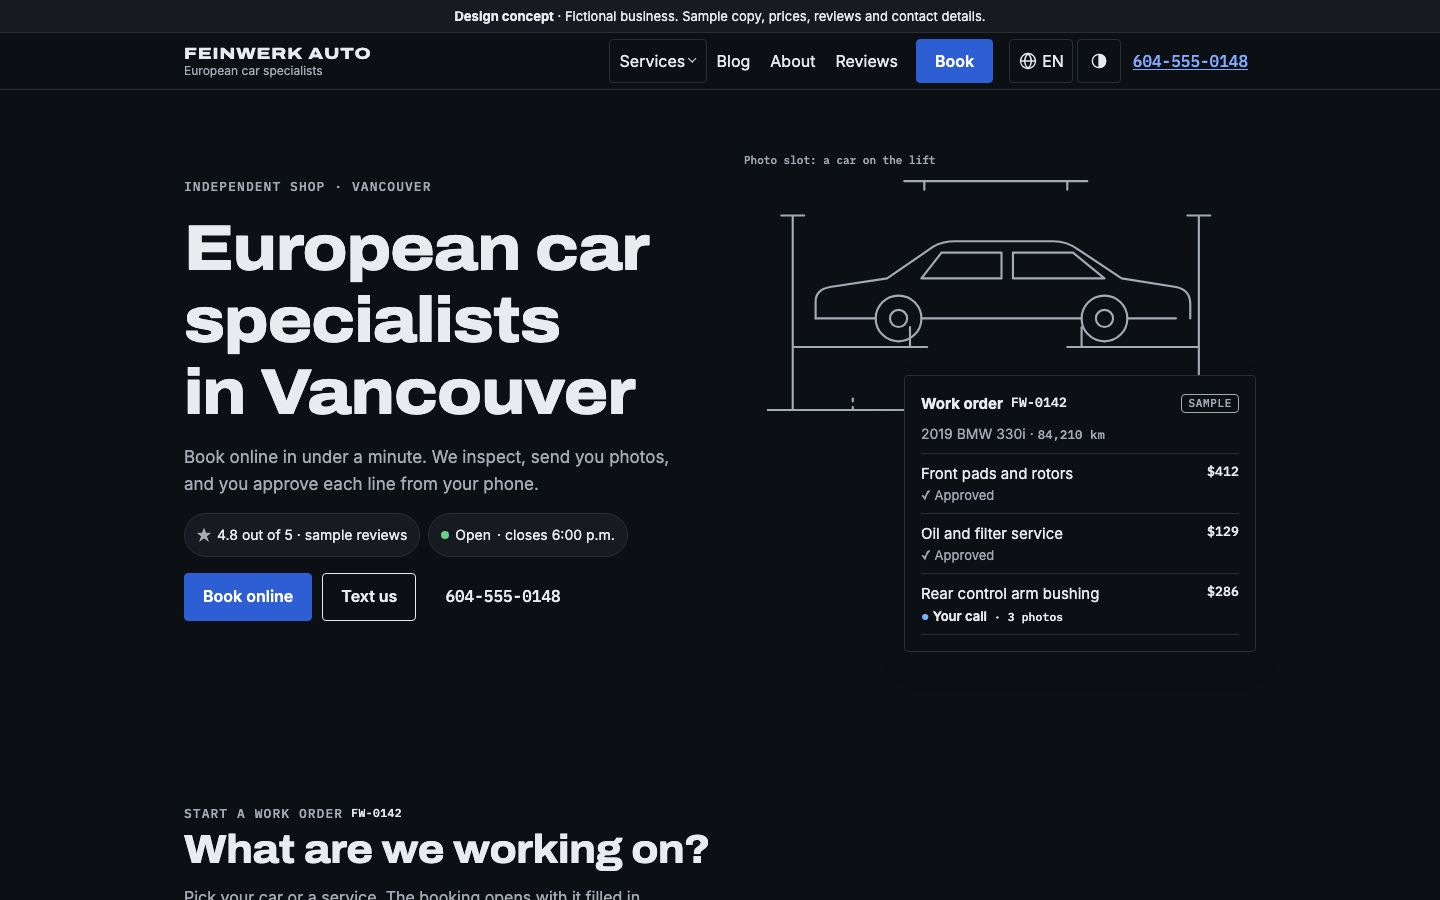
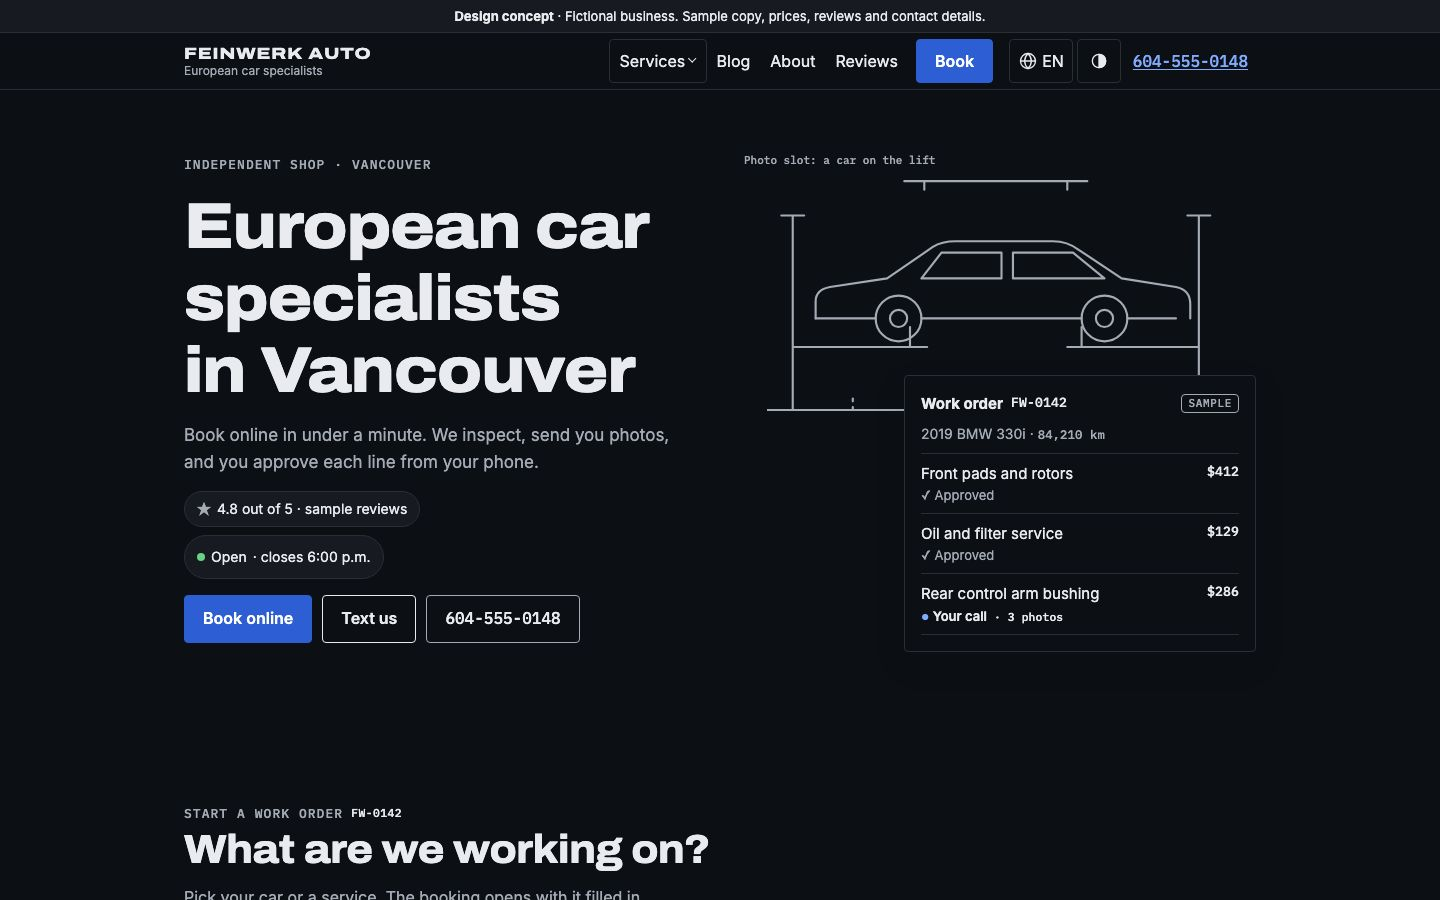
docs: the CLS fix in review.md and decisions.md; README shots retaken ($ prices, stacked chips)

Changed region(s): [[0.125, 0.1556, 0.4688, 0.7156], [0.3125, 0.5911, 0.4375, 0.6222]]

diff --git a/docs/decisions.md b/docs/decisions.md
@@ -152,5 +152,6 @@ PLAN.md's Decisions are settled; they are repeated here so each can be revisited
 - **No container queries yet** (review S4). Every component sits in one place at one width per viewport, so a container query would give the same result as the media queries already there. The first component placed in two contexts (a tile in a sidebar, a review card in a post) gets one.
 - **No same-page view transition on the make picker** (review S4). The make tiles are links to the make pages, so there is no state change on the page to animate; a cross-page transition stays an extra, as PLAN.md's browser table says.
 - **No "next free slot" on the page** (review S4). A static demo has no calendar: a next free slot would be invented data shown as live, the one kind of sample the demo-safety rules can't label well. The open/closed chip is live (it is computed from the hours and the Vancouver clock); the booking slots are computed from the hours and say "We call you to confirm the time."
+- **The hero chips sit one per row at every width.** The open/closed label is written by script after the first paint, so its width can't be known at build time; on one row with the rating chip, a longer label wrapped the row and shifted the page (CLS 0.13 in one Lighthouse run). Stacked, the label can grow without moving anything. `tests/e2e/home.spec.ts` swaps the painted and live labels in four languages at 360, 412, 768 and 1440 px and checks the buttons below stay put.
 - **English got its own read** (p6 pre-review): Canadian spelling holds (centre, labour, kilometres, tires, licensed), no "dealer" or "authorized" outside key names. One line changed: "with your car filled in" became "The booking opens with your car's details filled in", the same sentence that read badly in French (M5).
 - **Phone screenshots for Ming's look are local renders** (`node scripts/readme-shots.mjs <preview URL> --phones` into `docs/screenshots/phone/`): the first screen of Home, the BMW and MINI page and Book, 4 languages × 2 themes, at 390 × 844. They are macOS renders for a person to look at; the 48 baselines stay CI's own.

diff --git a/docs/review.md b/docs/review.md
@@ -26,6 +26,7 @@ Every Must item is fixed. Five Should items are fixed, two are left with a reaso
 | S5 | fixed | 0f97c50: Flotte, point relevé, boîte de transfert, sur place, on lit ses codes d'erreur, une rangée d'ateliers, centre de service de marque typique, 2,0 L with a no-break space, "ont toutes des panneaux", "redescendues à environ ±3 %" |
 | S6 | fixed, one left | 0f97c50: contact lead, review 5, vag.lead, 副水箱, 後泵把, 「裂咗條縫」, 睇下 in the posts too. 輪圈 → 呔鈴 left for the native reader, as the review said |
 | S7 | fixed | 0f97c50: 汽修店 (7 places), 厢式车, 「尽头的那一间」, review 5 rewritten |
+| New | fixed | a86f19c: Lighthouse saw CLS 0.13 on Home in 1 of 3 runs (CI run 44692934822). The status chip paints "See hours", the script writes "Closed · opens tomorrow 8:00 a.m.", and at 412 px the longer label wrapped the chips row. The hero chips now sit one per row; a new e2e test fails on the old CSS at 412 px in all four languages |
 | p6 pre-review | done | English was never read in Phase 6. Read in Phase 7: Canadian spelling holds, no "dealer" or "authorized" outside key names, one line changed (M5 row). 简体中文 now has phone screenshots in both themes in `docs/screenshots/phone/` |
 
 ## How it was checked
